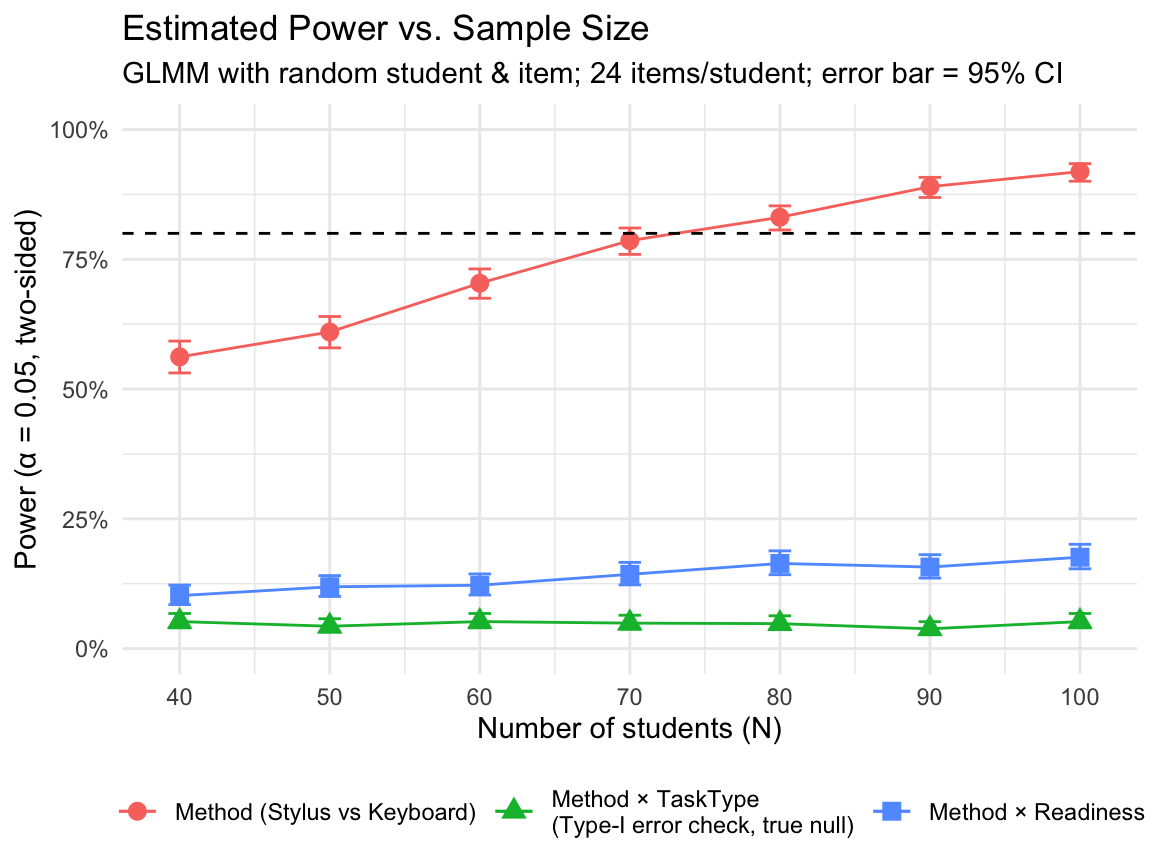
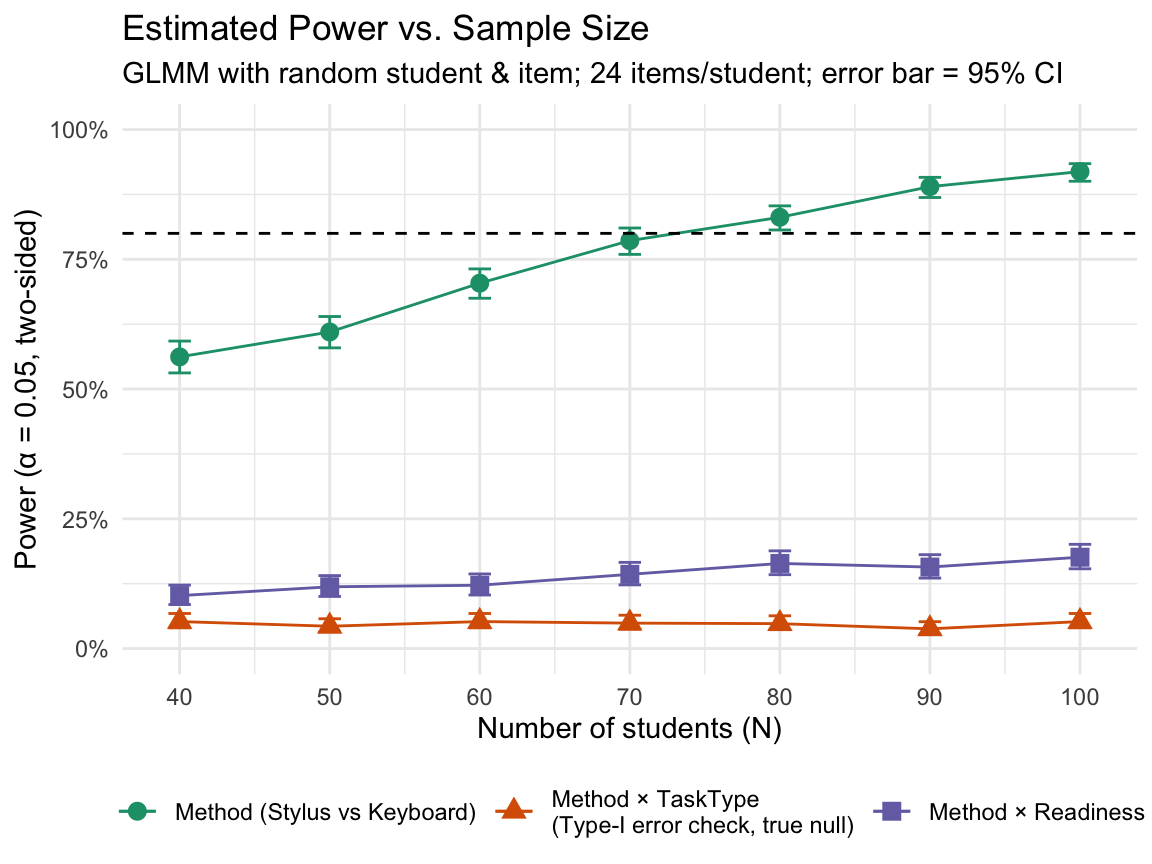
Darker palette

diff --git a/mixed_model.html b/mixed_model.html
@@ -452,26 +452,27 @@ window.Quarto = {
 <span id="cb7-24"><a href="#cb7-24" aria-hidden="true" tabindex="-1"></a>  <span class="fu">geom_point</span>(<span class="at">size =</span> <span class="dv">3</span>) <span class="sc">+</span></span>
 <span id="cb7-25"><a href="#cb7-25" aria-hidden="true" tabindex="-1"></a>  <span class="fu">geom_errorbar</span>(<span class="fu">aes</span>(<span class="at">ymin =</span> lo, <span class="at">ymax =</span> hi), <span class="at">width =</span> <span class="fl">1.5</span>) <span class="sc">+</span></span>
 <span id="cb7-26"><a href="#cb7-26" aria-hidden="true" tabindex="-1"></a>  <span class="fu">geom_hline</span>(<span class="at">yintercept =</span> <span class="fl">0.80</span>, <span class="at">linetype =</span> <span class="dv">2</span>) <span class="sc">+</span></span>
-<span id="cb7-27"><a href="#cb7-27" aria-hidden="true" tabindex="-1"></a>  <span class="fu">scale_y_continuous</span>(</span>
-<span id="cb7-28"><a href="#cb7-28" aria-hidden="true" tabindex="-1"></a>    <span class="at">labels =</span> scales<span class="sc">::</span><span class="fu">percent_format</span>(<span class="at">accuracy =</span> <span class="dv">1</span>),</span>
-<span id="cb7-29"><a href="#cb7-29" aria-hidden="true" tabindex="-1"></a>    <span class="at">limits =</span> <span class="fu">c</span>(<span class="dv">0</span>, <span class="dv">1</span>)</span>
-<span id="cb7-30"><a href="#cb7-30" aria-hidden="true" tabindex="-1"></a>  ) <span class="sc">+</span></span>
-<span id="cb7-31"><a href="#cb7-31" aria-hidden="true" tabindex="-1"></a>  <span class="fu">scale_x_continuous</span>(<span class="at">breaks =</span> n_grid) <span class="sc">+</span></span>
-<span id="cb7-32"><a href="#cb7-32" aria-hidden="true" tabindex="-1"></a>  <span class="fu">labs</span>(</span>
-<span id="cb7-33"><a href="#cb7-33" aria-hidden="true" tabindex="-1"></a>    <span class="at">title =</span> <span class="st">"Estimated Power vs. Sample Size"</span>,</span>
-<span id="cb7-34"><a href="#cb7-34" aria-hidden="true" tabindex="-1"></a>    <span class="at">subtitle =</span> <span class="fu">str_c</span>(</span>
-<span id="cb7-35"><a href="#cb7-35" aria-hidden="true" tabindex="-1"></a>      <span class="st">"GLMM with random student &amp; item; "</span>,</span>
-<span id="cb7-36"><a href="#cb7-36" aria-hidden="true" tabindex="-1"></a>      <span class="st">"24 items/student; "</span>,</span>
-<span id="cb7-37"><a href="#cb7-37" aria-hidden="true" tabindex="-1"></a>      <span class="st">"error bar = 95% CI"</span></span>
-<span id="cb7-38"><a href="#cb7-38" aria-hidden="true" tabindex="-1"></a>    ),</span>
-<span id="cb7-39"><a href="#cb7-39" aria-hidden="true" tabindex="-1"></a>    <span class="at">x =</span> <span class="st">"Number of students (N)"</span>,</span>
-<span id="cb7-40"><a href="#cb7-40" aria-hidden="true" tabindex="-1"></a>    <span class="at">y =</span> <span class="st">"Power (α = 0.05, two-sided)"</span>,</span>
-<span id="cb7-41"><a href="#cb7-41" aria-hidden="true" tabindex="-1"></a>    <span class="at">color =</span> <span class="cn">NULL</span>,</span>
-<span id="cb7-42"><a href="#cb7-42" aria-hidden="true" tabindex="-1"></a>    <span class="at">shape =</span> <span class="cn">NULL</span></span>
-<span id="cb7-43"><a href="#cb7-43" aria-hidden="true" tabindex="-1"></a>  ) <span class="sc">+</span></span>
-<span id="cb7-44"><a href="#cb7-44" aria-hidden="true" tabindex="-1"></a>  <span class="fu">theme_minimal</span>() <span class="sc">+</span></span>
-<span id="cb7-45"><a href="#cb7-45" aria-hidden="true" tabindex="-1"></a>  <span class="fu">theme</span>(<span class="at">legend.position =</span> <span class="st">"bottom"</span>)</span>
-<span id="cb7-46"><a href="#cb7-46" aria-hidden="true" tabindex="-1"></a>g</span></code><button title="Copy to Clipboard" class="code-copy-button"><i class="bi"></i></button></pre></div>
+<span id="cb7-27"><a href="#cb7-27" aria-hidden="true" tabindex="-1"></a>  <span class="fu">scale_x_continuous</span>(<span class="at">breaks =</span> n_grid) <span class="sc">+</span></span>
+<span id="cb7-28"><a href="#cb7-28" aria-hidden="true" tabindex="-1"></a>  <span class="fu">scale_y_continuous</span>(</span>
+<span id="cb7-29"><a href="#cb7-29" aria-hidden="true" tabindex="-1"></a>    <span class="at">labels =</span> scales<span class="sc">::</span><span class="fu">percent_format</span>(<span class="at">accuracy =</span> <span class="dv">1</span>),</span>
+<span id="cb7-30"><a href="#cb7-30" aria-hidden="true" tabindex="-1"></a>    <span class="at">limits =</span> <span class="fu">c</span>(<span class="dv">0</span>, <span class="dv">1</span>)</span>
+<span id="cb7-31"><a href="#cb7-31" aria-hidden="true" tabindex="-1"></a>  ) <span class="sc">+</span></span>
+<span id="cb7-32"><a href="#cb7-32" aria-hidden="true" tabindex="-1"></a>  <span class="fu">scale_color_brewer</span>(<span class="at">palette =</span> <span class="st">"Dark2"</span>) <span class="sc">+</span></span>
+<span id="cb7-33"><a href="#cb7-33" aria-hidden="true" tabindex="-1"></a>  <span class="fu">labs</span>(</span>
+<span id="cb7-34"><a href="#cb7-34" aria-hidden="true" tabindex="-1"></a>    <span class="at">title =</span> <span class="st">"Estimated Power vs. Sample Size"</span>,</span>
+<span id="cb7-35"><a href="#cb7-35" aria-hidden="true" tabindex="-1"></a>    <span class="at">subtitle =</span> <span class="fu">str_c</span>(</span>
+<span id="cb7-36"><a href="#cb7-36" aria-hidden="true" tabindex="-1"></a>      <span class="st">"GLMM with random student &amp; item; "</span>,</span>
+<span id="cb7-37"><a href="#cb7-37" aria-hidden="true" tabindex="-1"></a>      <span class="st">"24 items/student; "</span>,</span>
+<span id="cb7-38"><a href="#cb7-38" aria-hidden="true" tabindex="-1"></a>      <span class="st">"error bar = 95% CI"</span></span>
+<span id="cb7-39"><a href="#cb7-39" aria-hidden="true" tabindex="-1"></a>    ),</span>
+<span id="cb7-40"><a href="#cb7-40" aria-hidden="true" tabindex="-1"></a>    <span class="at">x =</span> <span class="st">"Number of students (N)"</span>,</span>
+<span id="cb7-41"><a href="#cb7-41" aria-hidden="true" tabindex="-1"></a>    <span class="at">y =</span> <span class="st">"Power (α = 0.05, two-sided)"</span>,</span>
+<span id="cb7-42"><a href="#cb7-42" aria-hidden="true" tabindex="-1"></a>    <span class="at">color =</span> <span class="cn">NULL</span>,</span>
+<span id="cb7-43"><a href="#cb7-43" aria-hidden="true" tabindex="-1"></a>    <span class="at">shape =</span> <span class="cn">NULL</span></span>
+<span id="cb7-44"><a href="#cb7-44" aria-hidden="true" tabindex="-1"></a>  ) <span class="sc">+</span></span>
+<span id="cb7-45"><a href="#cb7-45" aria-hidden="true" tabindex="-1"></a>  <span class="fu">theme_minimal</span>() <span class="sc">+</span></span>
+<span id="cb7-46"><a href="#cb7-46" aria-hidden="true" tabindex="-1"></a>  <span class="fu">theme</span>(<span class="at">legend.position =</span> <span class="st">"bottom"</span>)</span>
+<span id="cb7-47"><a href="#cb7-47" aria-hidden="true" tabindex="-1"></a>g</span></code><button title="Copy to Clipboard" class="code-copy-button"><i class="bi"></i></button></pre></div>
 <div class="cell-output-display">
 <div>
 <figure class="figure">
